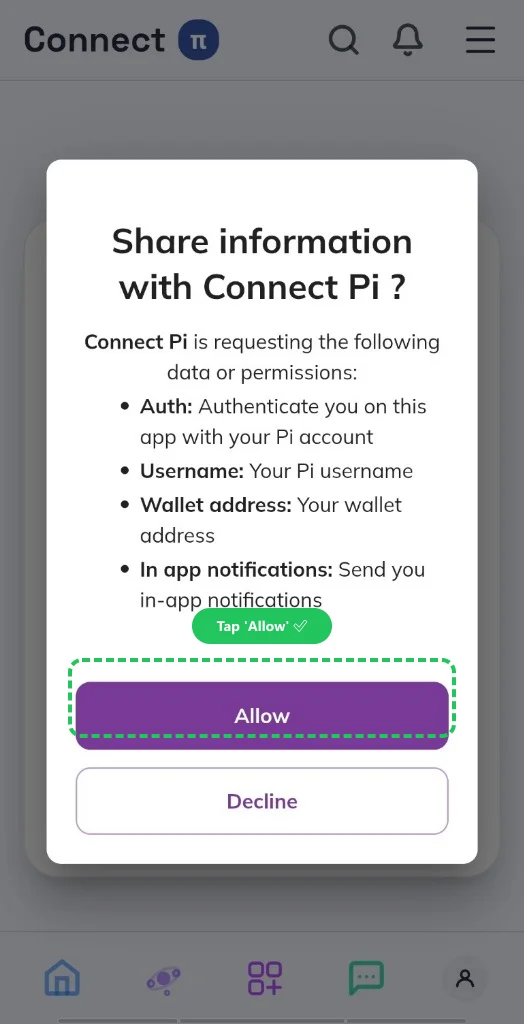
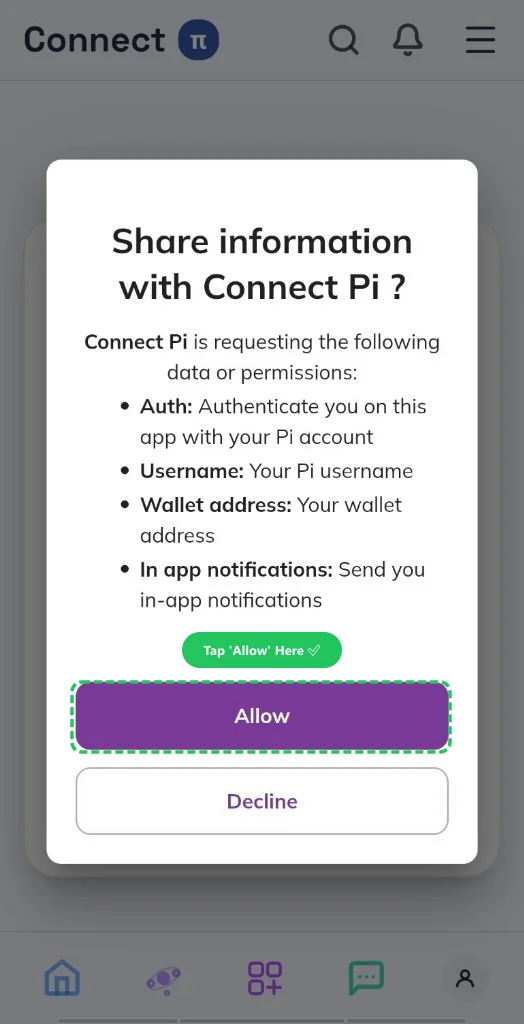
feat(content): complete desktop QR login flow and fix Allow button marker alignment

Changed region(s): [[0.1221, 0.5938, 0.8855, 0.75]]

diff --git a/scripts/process-article-images.ts b/scripts/process-article-images.ts
@@ -5,6 +5,7 @@ import fs from "fs";
 const uploadDir = "C:/Users/RDP/.gemini/antigravity/brain/710eadef-40cb-4dc4-9132-462f910b6ea8/.user_uploaded";
 const img1Path = path.join(uploadDir, "media_1794393244787_d7e16a48.jpg");
 const img2Path = path.join(uploadDir, "media_1794393735912_3ca52ac1.jpg");
+const img3Path = path.join(uploadDir, "media_1794394442421_8d44ca68.png");
 
 const targetDir = path.join(process.cwd(), "public/images/articles/web");
 if (!fs.existsSync(targetDir)) {
@@ -12,9 +13,7 @@ if (!fs.existsSync(targetDir)) {
 }
 
 async function processImages() {
-  // 1. Process Image 1: Continue with Pi screen
-  // Image 1 is 1024 x 733
-  // Button "Continue with Pi" is around x=332, y=264, width=316, height=45
+  // 1. Image 1: Continue with Pi screen
   const svgOverlay1 = `
   <svg width="1024" height="733" viewBox="0 0 1024 733" xmlns="http://www.w3.org/2000/svg">
     <!-- Highlight rectangle around Continue with Pi button -->
@@ -34,17 +33,15 @@ async function processImages() {
 
   console.log("✓ Processed and saved: pi-browser-login-choice.webp");
 
-  // 2. Process Image 2: Allow modal screen
-  // Image 2 is 524 x 1024
-  // Purple "Allow" button is around x=75, y=665, width=374, height=68
+  // 2. Image 2: Fixed Allow modal screen (aligned right over the purple Allow button y: 684-750)
   const svgOverlay2 = `
   <svg width="524" height="1024" viewBox="0 0 524 1024" xmlns="http://www.w3.org/2000/svg">
-    <!-- Highlight rectangle around Allow button -->
-    <rect x="70" y="660" width="384" height="76" rx="12" fill="none" stroke="#22C55E" stroke-width="4" stroke-dasharray="8,4" />
-    <!-- Step badge -->
-    <g transform="translate(192, 608)">
-      <rect width="140" height="36" rx="18" fill="#22C55E" />
-      <text x="70" y="23" fill="#ffffff" font-family="-apple-system, BlinkMacSystemFont, 'Segoe UI', Roboto, sans-serif" font-size="14" font-weight="700" text-anchor="middle">Tap 'Allow' ✅</text>
+    <!-- Highlight rectangle directly wrapping the Allow button -->
+    <rect x="72" y="682" width="378" height="70" rx="10" fill="none" stroke="#22C55E" stroke-width="3.5" stroke-dasharray="8,4" />
+    <!-- Step badge above button -->
+    <g transform="translate(182, 632)">
+      <rect width="160" height="36" rx="18" fill="#22C55E" />
+      <text x="80" y="23" fill="#ffffff" font-family="-apple-system, BlinkMacSystemFont, 'Segoe UI', Roboto, sans-serif" font-size="13" font-weight="700" text-anchor="middle">Tap 'Allow' Here ✅</text>
     </g>
   </svg>
   `;
@@ -54,8 +51,27 @@ async function processImages() {
     .webp({ quality: 85 })
     .toFile(path.join(targetDir, "pi-auth-modal-allow.webp"));
 
-  console.log("✓ Processed and saved: pi-auth-modal-allow.webp");
+  console.log("✓ Processed and saved: pi-auth-modal-allow.webp (marker fixed)");
+
+  // 3. Image 3: Desktop QR code on accounts.pinet.com
+  const svgOverlay3 = `
+  <svg width="1024" height="734" viewBox="0 0 1024 734" xmlns="http://www.w3.org/2000/svg">
+    <!-- Highlight frame around QR code -->
+    <rect x="382" y="258" width="260" height="258" rx="12" fill="none" stroke="#5B2FC9" stroke-width="3.5" stroke-dasharray="8,4" />
+    <!-- Scan badge above QR -->
+    <g transform="translate(407, 212)">
+      <rect width="210" height="34" rx="17" fill="#5B2FC9" />
+      <text x="105" y="22" fill="#ffffff" font-family="-apple-system, BlinkMacSystemFont, 'Segoe UI', Roboto, sans-serif" font-size="13" font-weight="700" text-anchor="middle">Scan with Phone Camera 📱</text>
+    </g>
+  </svg>
+  `;
+
+  await sharp(img3Path)
+    .composite([{ input: Buffer.from(svgOverlay3) }])
+    .webp({ quality: 85 })
+    .toFile(path.join(targetDir, "desktop-qr-login-pinet.webp"));
+
+  console.log("✓ Processed and saved: desktop-qr-login-pinet.webp");
 }
 
 processImages().catch(console.error);
-
